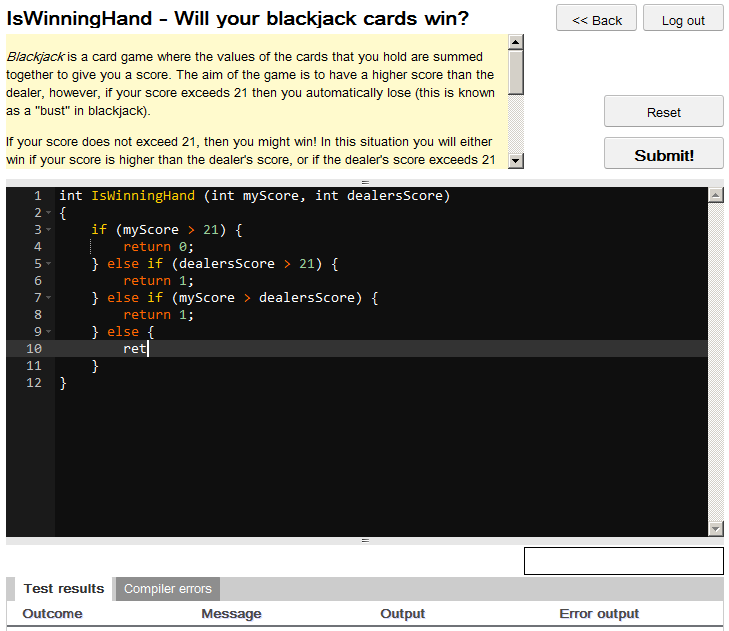
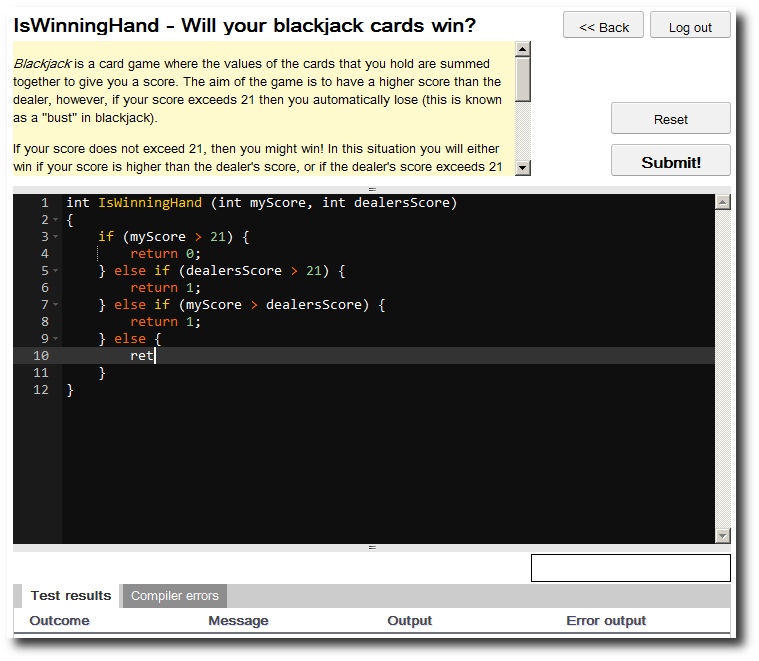
add drop shadows to screenshots

Changed region(s): [[0.0, 0.0, 0.9959, 0.9937]]

diff --git a/poster.tex b/poster.tex
@@ -231,10 +231,10 @@ Carnegie-Mellon University
     \centerline{\bf\underline{Main menu, choosing an exercise}}
     \vskip .1in
     \includegraphics[height=3in]{images/menu}
-    \end{minipage}\hskip .3in\begin{minipage}[t]{4in}
+    \end{minipage}\hskip .1in\begin{minipage}[t]{4in}
     \centerline{\bf\underline{Working on an exercise}}
     \vskip .1in
-    \includegraphics[height=3in]{images/exercise}
+    \centerline{\includegraphics[height=3in]{images/exercise}}
     \end{minipage}
     
   }
